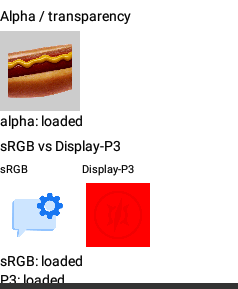
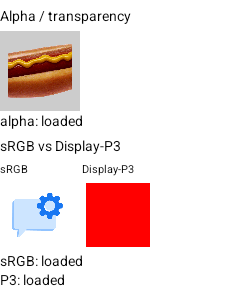
Stabilize Android E2E tests for ARM64 APKs (#58140)
Summary:
Stabilizes the Android RNTester E2E jobs after switching their APKs to ARM64 while continuing to run the emulator on an x86_64 host.

- Updates the Android wide-gamut screenshot baseline using the stable ARM64 result from the API 35 emulator. The emulator does not support wide color, so the Display-P3 fixture is converted to solid sRGB red.
- Marks the FlatList `maintainVisibleContentPosition` flows as Android release-only. These flows remain fully covered by the release APK, where they consistently pass, while avoiding debug-only timing failures caused by running the ARM64 debug runtime through native translation.
- Adds generic tag filtering to the Android Maestro runner and unit coverage for it.

Across seven post-migration `main` runs, the release APK passed every FlatList flow, while the debug APK consistently dropped or delayed Maestro interactions and skipped up to 172 frames during startup.

## Changelog:

[INTERNAL] [FIXED] - Stabilize Android RNTester E2E tests when running ARM64 APKs on x86_64 emulators.

Pull Request resolved: https://github.com/react/react-native/pull/58140

Test Plan:
- `./node_modules/.bin/jest .github/workflow-scripts/__tests__/maestro-android-test.js --runInBand --config='{"testEnvironment":"node","transform":{},"roots":["<rootDir>/.github/workflow-scripts"]}'` — passed (3 tests)
- `maestro 2.6.1 check-syntax` for all 24 tagged FlatList flows — passed
- Prettier check for all changed text files — passed
[…]

diff --git a/.github/workflow-scripts/maestro-android.js b/.github/workflow-scripts/maestro-android.js
@@ -13,7 +13,7 @@ const path = require('path');
 
 const usage = `
 === Usage ===
-node maestro-android.js <path to app> <app_id> <maestro_flow> <flavor> <working_directory> [test_state_path]
+node maestro-android.js <path to app> <app_id> <maestro_flow> <flavor> <working_directory> [test_state_path] [exclude_tags]
 
 @param {string} appPath - Path to the app APK
 @param {string} appId - App ID that needs to be launched
@@ -21,6 +21,7 @@ node maestro-android.js <path to app> <app_id> <maestro_flow> <flavor> <working_
 @param {string} flavor - Flavor of the app to be launched. Can be 'release' or 'debug'
 @param {string} workingDirectory - Working directory from where to run Metro
 @param {string} testStatePath - File used to persist per-flow results between CI retries
+@param {string} excludeTags - Comma-separated flow tags to exclude
 ==============
 `;
 
@@ -61,6 +62,39 @@ function collectFlows(flowPath) {
     // Skip non-flow files (e.g. screenshot baselines under screenshots/).
   }
   return flows;
+}
+
+function getFlowTags(flow) {
+  const contents = fs.readFileSync(flow, 'utf8');
+  const tags = [];
+  const tagBlockPattern = /^tags:\s*\r?\n((?:^[ \t]+-[ \t]*[^\r\n]+\r?\n?)*)/gm;
+
+  for (const match of contents.matchAll(tagBlockPattern)) {
+    for (const line of match[1].split(/\r?\n/)) {
+      const tag = line.match(/^[ \t]+-[ \t]*(.+?)\s*$/)?.[1];
+      if (tag != null) {
+        tags.push(tag);
+      }
+    }
+  }
+
+  return tags;
+}
+
+function filterFlowsByTags(flows, excludeTags) {
+  if (excludeTags.length === 0) {
+    return flows;
+  }
+
+  return flows.filter(flow => {
+    const tags = getFlowTags(flow);
+    const excludedTag = tags.find(tag => excludeTags.includes(tag));
+    if (excludedTag != null) {
+      console.info(`Skipping flow tagged ${excludedTag}: ${flow}`);
+      return false;
+    }
+    return true;
+  });
 }
 
 function getFlowKey(flow) {
@@ -274,7 +308,7 @@ function executeFlowSuite({
 }
 
 async function main(args = process.argv.slice(2)) {
-  if (args.length < 5 || args.length > 6) {
+  if (args.length < 5 || args.length > 7) {
     throw new Error(`Invalid number of arguments.\n${usage}`);
   }
 
@@ -284,6 +318,10 @@ async function main(args = process.argv.slice(2)) {
   const isDebug = args[3] === 'debug';
   const workingDirectory = args[4];
   const statePath = args[5] ?? DEFAULT_STATE_PATH;
+  const excludeTags = (args[6] ?? '')
+    .split(',')
+    .map(tag => tag.trim())
+    .filter(Boolean);
 
   console.info('\n==============================');
   console.info('Running tests for Android with the following parameters:');
@@ -293,6 +331,7 @@ async function main(args = process.argv.slice(2)) {
   console.info(`IS_DEBUG: ${isDebug}`);
   console.info(`WORKING_DIRECTORY: ${workingDirectory}`);
   console.info(`TEST_STATE_PATH: ${statePath}`);
+  console.info(`EXCLUDE_TAGS: ${excludeTags.join(',') || '<none>'}`);
   console.info('==============================\n');
 
   logAndroidAbiConfiguration();
@@ -338,7 +377,7 @@ async function main(args = process.argv.slice(2)) {
 
   let error = null;
   try {
-    const flows = collectFlows(maestroFlow);
+    const flows = filterFlowsByTags(collectFlows(maestroFlow), excludeTags);
     const state = loadState(statePath);
     console.info(`Start testing ${flows.length} flow(s)`);
     executeFlowSuite({flows, appId, state, statePath});
@@ -378,6 +417,7 @@ if (require.main === module) {
 module.exports = {
   collectFlows,
   executeFlowSuite,
+  filterFlowsByTags,
   formatResults,
   loadState,
 };

diff --git a/.github/workflow-scripts/__tests__/maestro-android-test.js b/.github/workflow-scripts/__tests__/maestro-android-test.js
@@ -14,6 +14,7 @@ const path = require('path');
 const {
   collectFlows,
   executeFlowSuite,
+  filterFlowsByTags,
   loadState,
 } = require('../maestro-android');
 
@@ -43,6 +44,26 @@ describe('Maestro Android runner', () => {
       path.join(nestedDirectory, 'first.yml'),
       path.join(temporaryDirectory, 'second.yaml'),
     ]);
+  });
+
+  it('excludes flows with matching tags', () => {
+    const releaseOnlyFlow = path.join(
+      temporaryDirectory,
+      'android-release-only.yml',
+    );
+    const regularFlow = path.join(temporaryDirectory, 'regular.yml');
+    fs.writeFileSync(
+      releaseOnlyFlow,
+      'appId: x\ntags:\n  - android-release-only\n---\n- launchApp\n',
+    );
+    fs.writeFileSync(regularFlow, 'appId: x\n---\n- launchApp\n');
+
+    expect(
+      filterFlowsByTags(
+        [releaseOnlyFlow, regularFlow],
+        ['android-release-only'],
+      ),
+    ).toEqual([regularFlow]);
   });
 
   it('runs every flow and retries only flows that have not passed', () => {
